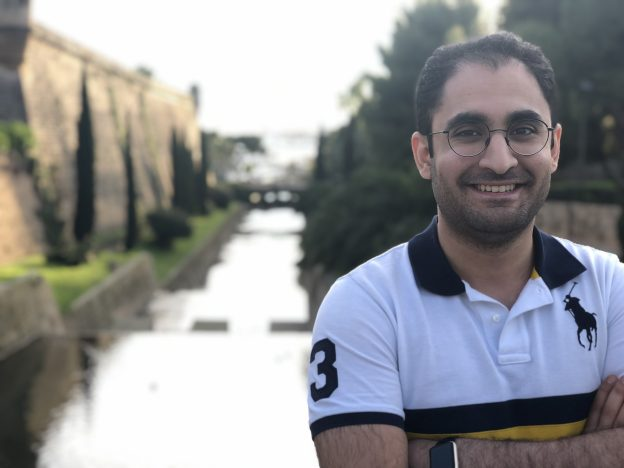
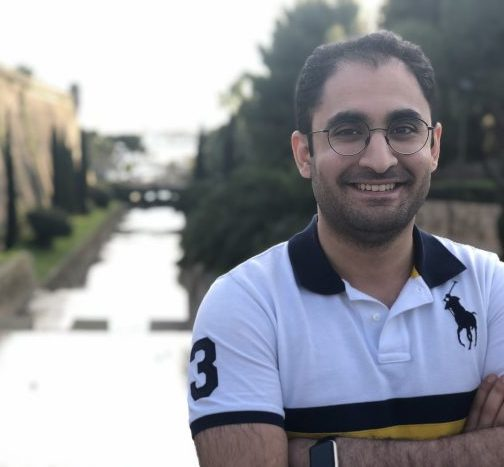
fix image size

diff --git a/index.html b/index.html
@@ -27,7 +27,8 @@
 	  <!-- Font Awesome Icon -->
 	  <link rel="stylesheet" href="font-awesome/css/font-awesome.min.css">
     <link rel="stylesheet" href="css/style.css">
-    
+    <link rel="stylesheet" href="css/acml.css">
+
   </head>
   <body data-spy="scroll" data-target=".site-navbar-target" data-offset="300">
   
@@ -403,7 +404,7 @@
         <div class="bg-white py-4 mb-4">
           <div class="row mx-4 my-4 product-item-2 align-items-start">
             <div class="col-md-6 mb-5 mb-md-0">
-              <img src="images/speakers/cylee.jpg" alt="Image" class="img-fluid">
+              <img src="images/speakers/cylee.jpg" alt="Image" class="pre-img">
             </div>
            
             <div class="col-md-5 ml-auto product-title-wrap">
@@ -434,7 +435,7 @@
         <div class="bg-white py-4 mb-4">
           <div class="row mx-4 my-4 product-item-2 align-items-start">
             <div class="col-md-6 mb-5 mb-md-0 order-1 order-md-2">
-              <img src="images/speakers/ryo-yonetani.jpeg" alt="Image" class="img-fluid">
+              <img src="images/speakers/ryo-yonetani.jpeg" alt="Image" class="pre-img">
             </div>
            
             <div class="col-md-5 mr-auto product-title-wrap order-2 order-md-1">

diff --git a/css/acml.css b/css/acml.css
@@ -1,0 +1,18 @@
+/*=========================================================
+	ACML UPDATE
+===========================================================*/
+.bold-date {
+  color: #f16821;
+}
+
+.card-image-top {
+  object-fit: cover;
+  width: 328px;
+  height: 328px;
+}
+
+.pre-img {
+  display: block;
+  margin-left: auto;
+  margin-right: auto;
+}

diff --git a/css/style.css b/css/style.css
@@ -1995,15 +1995,3 @@ h1, h2, h3, h4, h5,
 #galery-owl.owl-theme .owl-next {
   right: 15px;
 }
-
-/*=========================================================
-	ACML UPDATE
-===========================================================*/
-.bold-date {
-  color: #f16821;
-}
-
-.card-image-top {
-  width: auto;
-  height: 328px;
-}
